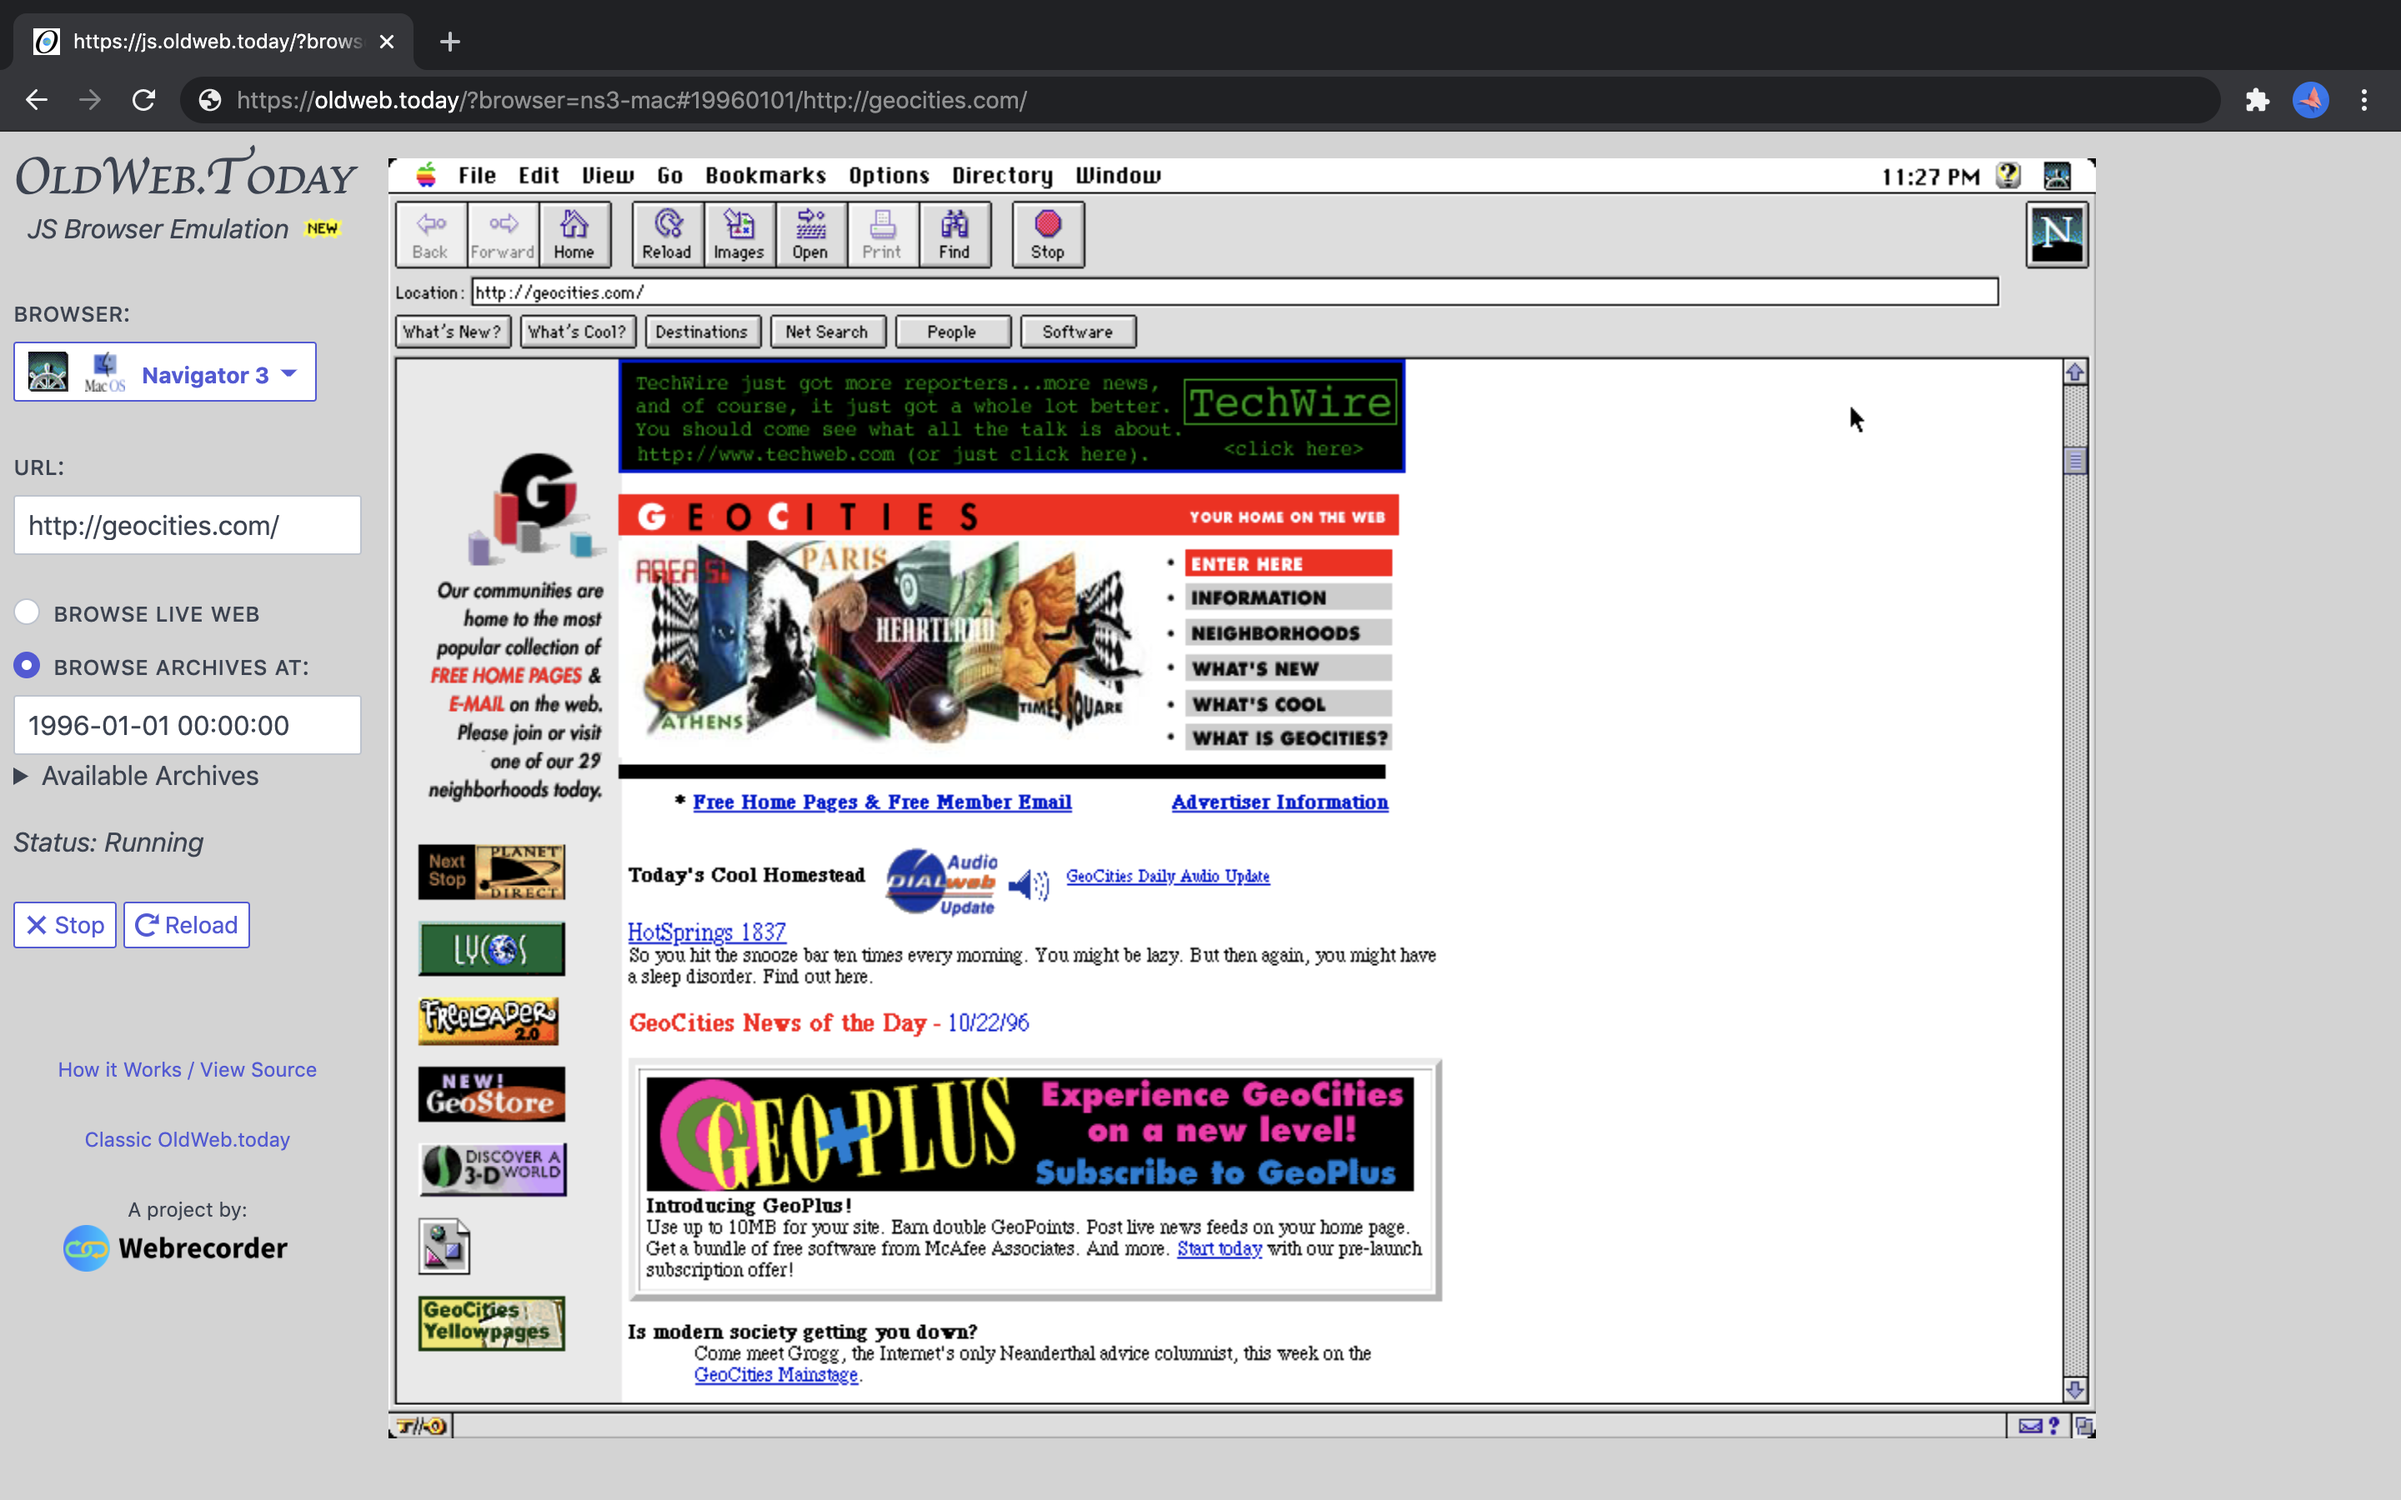
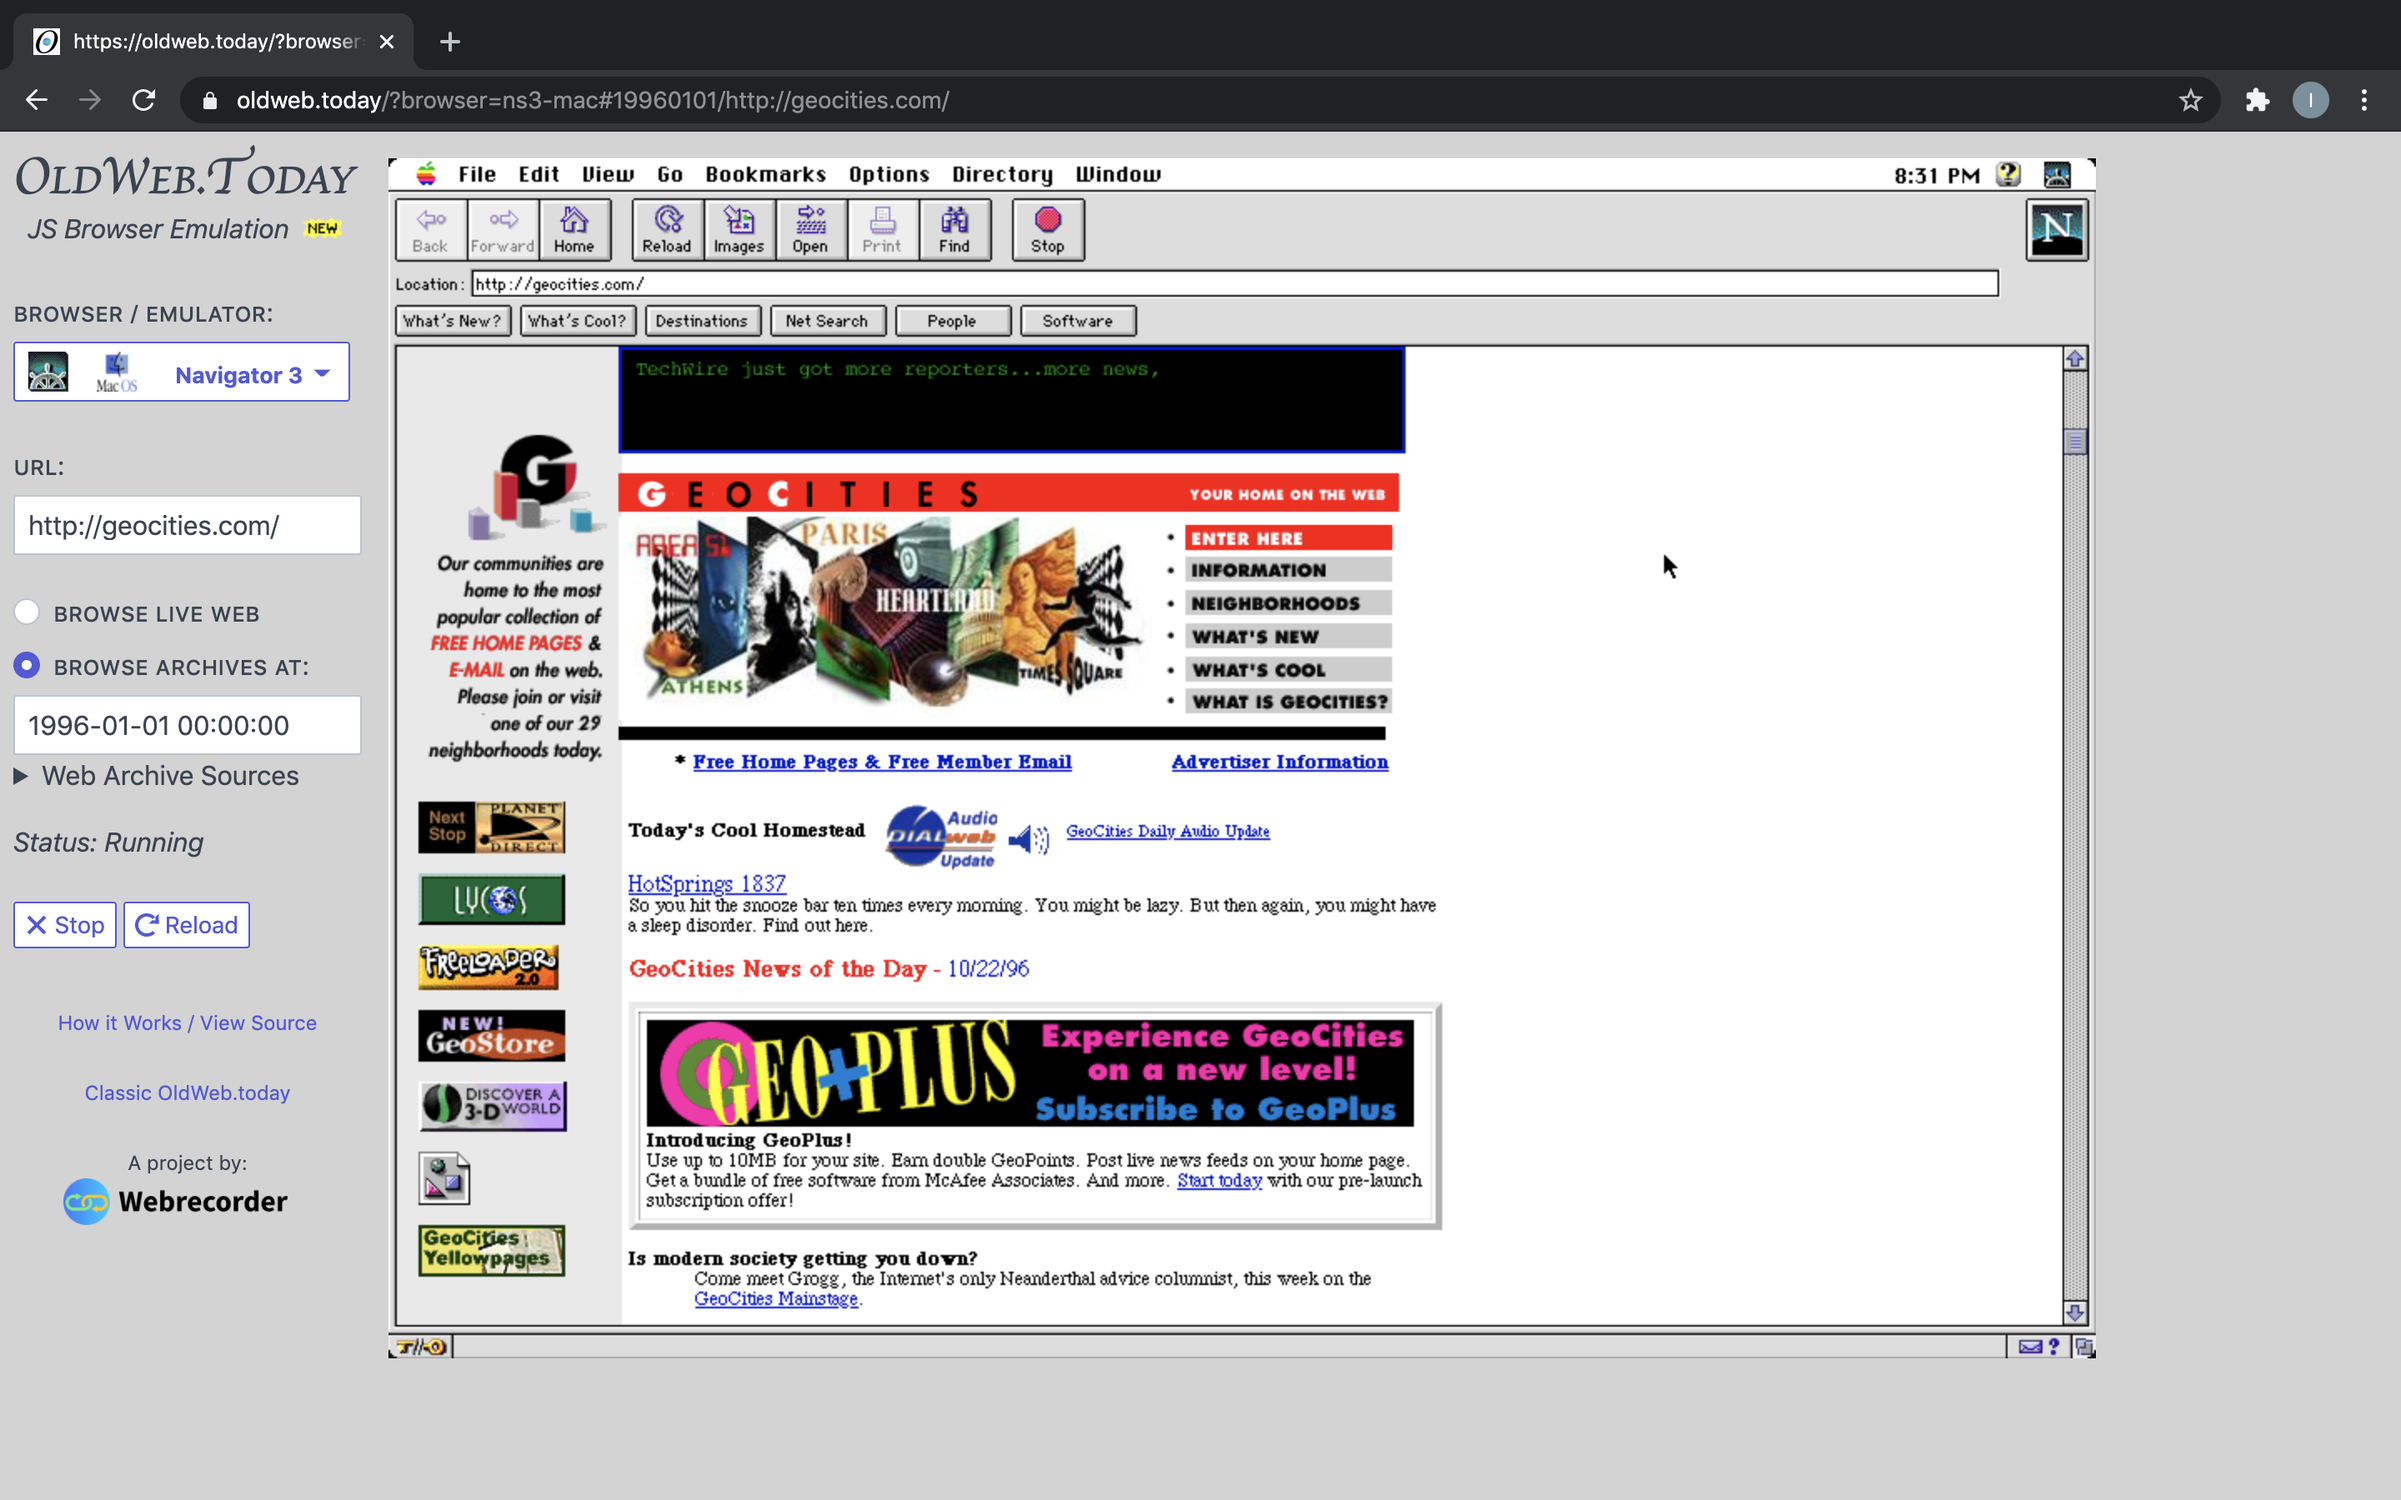
README: update screenshot ui: fix menu style to avoid scrollbar

diff --git a/src/main.js b/src/main.js
@@ -236,7 +236,7 @@ class OldWebToday extends LitElement
                       ${currEmu ? this.renderEmuLabel(currEmu): 'Select a Browser'}</span>
                     <i class="icon icon-caret" style="vertical-align: baseline"></i>
                   </a>
-                  <ul class="menu" style="width: 234px">
+                  <ul id="browser-menu" class="menu">
                     ${this.emuOptions.map((emu, i) => html`
                       ${emu.hidden ? html`` : html`
                       <li class="menu-item" style="">

diff --git a/site/assets/styles.css b/site/assets/styles.css
@@ -40,6 +40,11 @@ a:visited {
   z-index: 100;
 }
 
+#browser-menu {
+  width: 234px;
+  max-height: unset;
+}
+
 .err {
   margin: 1em;
   background: snow;
